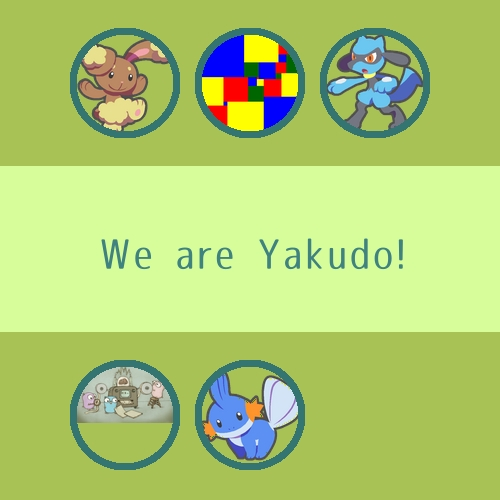
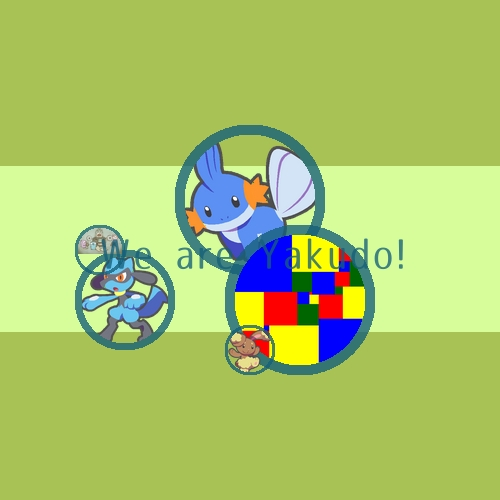
とりあえずランダムにはなったけど, 位置がおかしい

diff --git a/draw/points.go b/draw/points.go
@@ -1,0 +1,111 @@
+package draw
+
+import (
+	"errors"
+	"fmt"
+	"image"
+	"math"
+	"math/rand"
+	"time"
+)
+
+const BOAD_SIZE = 19
+const OUT_OF_BOAD = 4
+
+type Boad struct {
+	points [BOAD_SIZE][BOAD_SIZE]bool
+	width  int
+}
+
+/*
+ここにbit配列の説明を
+*/
+
+func NewBoad() Boad {
+	// bitmap的な
+	points := [BOAD_SIZE][BOAD_SIZE]bool{}
+	// boad初期化
+	// 外周はfalse
+	for i := 0; i < BOAD_SIZE; i++ {
+		for j := 0; j < BOAD_SIZE; j++ {
+			// 0 ~ 3, 15 ~ 18
+			if i < OUT_OF_BOAD || i >= BOAD_SIZE-OUT_OF_BOAD ||
+				j < OUT_OF_BOAD || j >= BOAD_SIZE-OUT_OF_BOAD {
+				points[i][j] = false
+			} else {
+				points[i][j] = true
+			}
+		}
+	}
+	width := IMG_SIZE / 20
+
+	return Boad{points, width}
+}
+
+func (b *Boad) atRect(x, y, size int) image.Rectangle {
+	// size 1, 2, 3, 4 (* 2)
+	if size < 1 || size > 4 {
+		size = 2
+	}
+	x0 := (x - size) * b.width
+	y0 := (y - size) * b.width
+	x1 := (x + size) * b.width
+	y1 := (y + size) * b.width
+	fmt.Println("座標:", x, y, size, "Rect:", x0, y0, x1, y1)
+
+	return image.Rect(x0, y0, x1, y1)
+}
+
+func (b *Boad) fillBoad(x, y, size int) {
+	for i := -size; i < size; i++ {
+		num := size - int(math.Abs(float64(i)))
+		for j := -num; j < num; j++ {
+			b.points[x+i][y+j] = false
+		}
+	}
+}
+
+func (b *Boad) GetRandomRect() (*image.Rectangle, int, error) {
+
+	rand.Seed(time.Now().UnixNano())
+
+	// 30回でいいやろ~~
+	for i := 0; i < 30; i++ {
+		rx := rand.Intn(BOAD_SIZE-OUT_OF_BOAD*2) + OUT_OF_BOAD
+		ry := rand.Intn(BOAD_SIZE-OUT_OF_BOAD*2) + OUT_OF_BOAD
+		rnum := rand.Intn(10)
+		// iconsizeのランダムな決定
+		var rsize int
+		switch {
+		case rnum == 0:
+			rsize = 1
+		case rnum < 4:
+			rsize = 2
+		case rnum < 8:
+			rsize = 3
+		default:
+			rsize = 4
+		}
+		if b.isAbleToPut(rx, ry, rsize) {
+			b.fillBoad(rx, ry, rsize)
+			rect := b.atRect(rx, ry, rsize)
+			return &rect, rsize, nil
+		}
+	}
+	return nil, 1, errors.New("Cannot put icon anymore.")
+}
+
+// Boadにおけるか
+// はみ出るものも弾いている
+// 今後どうしようか...
+func (b *Boad) isAbleToPut(x, y, size int) bool {
+	for i := -size; i < size; i++ {
+		num := size - int(math.Abs(float64(i)))
+		for j := -num; j < num; j++ {
+			if b.points[x+i][y+j] == false {
+				return false
+			}
+		}
+	}
+	return true
+}

diff --git a/draw/iconparts.go b/draw/iconparts.go
@@ -1,7 +1,6 @@
 package draw
 
 import (
-	"errors"
 	"image"
 	"image/color"
 	"image/draw"
@@ -16,21 +15,10 @@ type Icon struct {
 	ImageUrl    string
 	rect        image.Rectangle
 	pic         *Picture
+	rectWidth   uint
 }
-
-var x_width = IMG_SIZE / (MAX_ICON_NUM/2 + 1)
-var y_width = IMG_SIZE / 6 //これは決め打ち, 間の帯のサイズ次第
-var r = ICON_RADIUS
 
 // アイコン設置可能な位置の列挙
-var iconPoints = [6]image.Rectangle{
-	image.Rect(1*x_width-r, y_width-r, 1*x_width+r, y_width+r),
-	image.Rect(2*x_width-r, y_width-r, 2*x_width+r, y_width+r),
-	image.Rect(3*x_width-r, y_width-r, 3*x_width+r, y_width+r),
-	image.Rect(1*x_width-r, 5*y_width-r, 1*x_width+r, 5*y_width+r),
-	image.Rect(2*x_width-r, 5*y_width-r, 2*x_width+r, 5*y_width+r),
-	image.Rect(3*x_width-r, 5*y_width-r, 3*x_width+r, 5*y_width+r),
-}
 
 // アイコンをセット
 func NewIconList(urls []string) []*Icon {
@@ -38,17 +26,22 @@ func NewIconList(urls []string) []*Icon {
 	var icons []*Icon
 
 	// iconを配置する場所をランダムに決定
-	points := iconPoints[:]
+	boad := NewBoad()
 	iconNum := len(urls)
 
 	rand.Seed(time.Now().UnixNano())
+
 	var rnum int
 	for i := 0; i < iconNum && i < MAX_ICON_NUM; i++ {
 		icon := &Icon{}
 		// 設置場所
-		rnum = rand.Intn(len(points))
-		icon.rect = points[rnum]
-		points = append(points[:rnum], points[rnum+1:]...)
+		rect, size, err := boad.GetRandomRect()
+		if err != nil {
+			// これ以上アイコンが置けない
+			return icons
+		}
+		icon.rectWidth = uint(2 * size * boad.width)
+		icon.rect = *rect
 
 		// 画像
 		rnum = rand.Intn(len(urls))
@@ -64,7 +57,7 @@ func NewIconList(urls []string) []*Icon {
 // アイコン(=写真)を描画
 func (t *Thumbnail) PutIcons() error {
 	if t.Icons == nil {
-		return errors.New("There is no icons.")
+		return nil
 	}
 	for _, icon := range t.Icons {
 		if err := icon.drawIconImage(t.Img); err != nil {
@@ -78,7 +71,7 @@ func (t *Thumbnail) PutIcons() error {
 func (icon *Icon) drawIconImage(distImg *image.RGBA) error {
 
 	// アイコン画像生成
-	pic, err := NewPicture(icon.ImageUrl)
+	pic, err := icon.NewPicture()
 	if err != nil {
 		return err
 	}

diff --git a/draw/mask.go b/draw/mask.go
@@ -14,56 +14,56 @@ type Picture struct {
 	Img *image.RGBA
 }
 
-func NewPicture(imageUrl string) (*Picture, error) {
+func (i *Icon) NewPicture() (*Picture, error) {
 	pic := &Picture{}
 	// イメージをimage.Imageに変換し, リサイズ
-	img, err := decodeImage(imageUrl)
+	img, err := i.decodeImage()
 	if err != nil {
 		return nil, err
 	}
 
+	r := int(i.rectWidth / 2)
 	// アイコンを丸く切り取る
-	out := cutImage(img)
+	out := cutImage(img, r)
 
 	// ふちをつける
-	drawBounds(out, DARK_GREEN)
+	drawBounds(out, DARK_GREEN, r)
 
 	pic.Img = out
 	return pic, nil
 }
 
-func decodeImage(imageUrl string) (*image.Image, error) {
-	f, err := os.Open(imageUrl)
+func (i *Icon) decodeImage() (*image.Image, error) {
+	f, err := os.Open(i.ImageUrl)
 	if err != nil {
 		return nil, err
-	}
+	})
 	defer f.Close()
 	originImg, _, err := image.Decode(f)
 	if err != nil {
 		return nil, err
 	}
-	smallImg := resize.Thumbnail(ICON_RADIUS*2, ICON_RADIUS*2, originImg, resize.Lanczos3)
+	smallImg := resize.Thumbnail(i.rectWidth, i.rectWidth, originImg, resize.Lanczos3)
 
 	return &smallImg, nil
 }
 
 // 円形に切り取る
-func cutImage(in *image.Image) *image.RGBA {
+func cutImage(in *image.Image, r int) *image.RGBA {
 	// 土台となる無地のimage
-	out := image.NewRGBA(image.Rect(0, 0, 2*ICON_RADIUS, 2*ICON_RADIUS))
+	out := image.NewRGBA(image.Rect(0, 0, r*2, r*2))
 	// 円形以外の場合はここを変える
-	mask := &circle{image.Pt(ICON_RADIUS, ICON_RADIUS), ICON_RADIUS}
+	mask := &circle{image.Pt(r, r), r}
 	// 画像切り取り
 	draw.DrawMask(out, out.Bounds(), *in, image.ZP, mask, image.ZP, draw.Over)
 	return out
 }
 
 // 枠を書く
-func drawBounds(img *image.RGBA, col color.Color) {
-	r := ICON_RADIUS
-	bold := ICON_RADIUS / 7
+func drawBounds(img *image.RGBA, col color.Color, r int) {
+	bold := r / 7
 	// TODO radianの刻みもIMAGE_SIZEによって変えるべき
-	for rad := 0.0; rad < 2.0*float64(ICON_RADIUS); rad += 0.01 {
+	for rad := 0.0; rad < 2.0*float64(r); rad += 0.01 {
 		for i := 0; i < bold; i++ {
 			x := int(float64(r) + float64(r-i)*math.Cos(rad))
 			y := int(float64(r) + float64(r-i)*math.Sin(rad))

diff --git a/draw/constants.go b/draw/constants.go
@@ -8,6 +8,11 @@ const ICON_RADIUS = IMG_SIZE / 9
 
 const MAX_ICON_NUM = 6
 
+const (
+	DIAMOND = iota
+	CIRCLE
+)
+
 const FONT_PATH = "./fonts/07LogoTypeGothic-Condense.ttf"
 const FONT_SIZE = IMG_SIZE / 12
 
